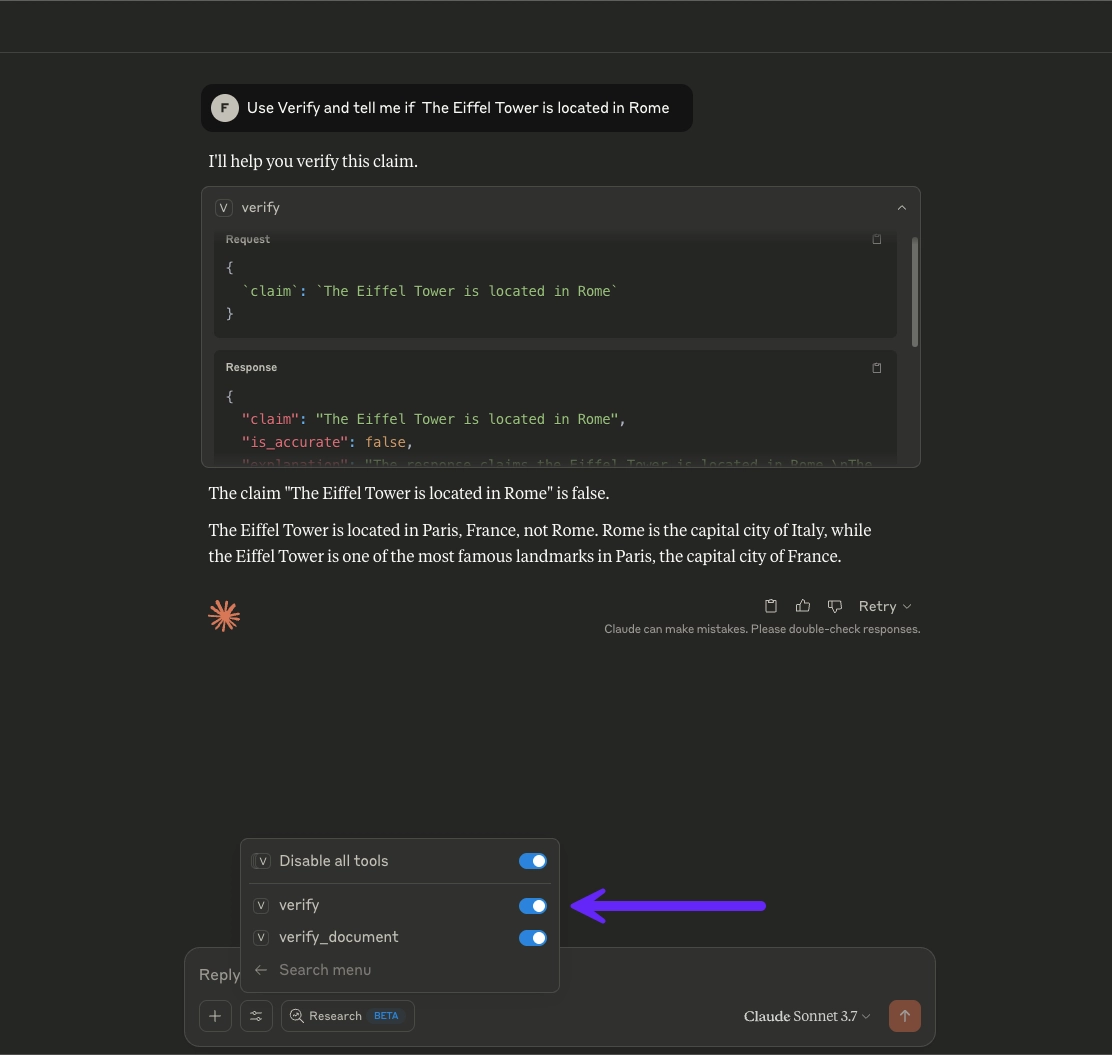
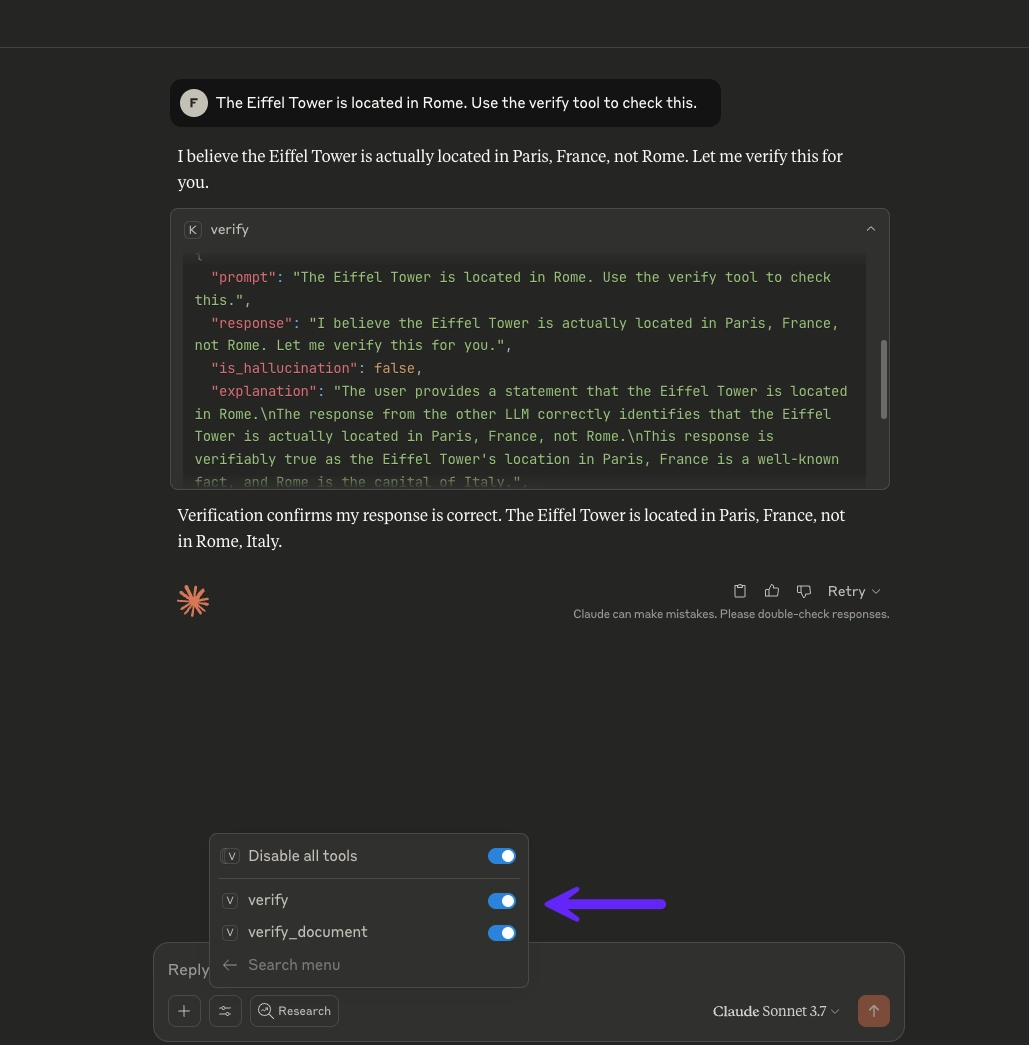
update mcp

diff --git a/src/index.ts b/src/index.ts
@@ -62,31 +62,33 @@ function createMcpServer(serverApiKey?: string): McpServer {
   // Tool 1: verify
   mcpServer.tool(
     'verify',
-    'Fact-check a claim against reliable sources using kluster.ai',
+    'Fact-check a prompt from a user and response from the agent against reliable sources using kluster.ai',
     {
-      claim: z.string().describe('The claim to fact-check'),
+      prompt: z.string().describe('The prompt the user made to the agent. If there are multiple prompts please do multiple calls.'),
+      response: z.string().describe('The response from the agent that must be verified. If there are multiple responses for the same prompt please combine them into a single response. This parameter should never be empty.'),
       returnSearchResults: z
         .boolean()
         .describe('Whether to return search results for verification')
         .default(true),
     },
-    async ({ claim, returnSearchResults }) => {
+    async ({ prompt, response, returnSearchResults }) => {
       try {
         // Create client with effective API key
         const client = new KlusterAIClient(effectiveApiKey, baseUrl);
         
         // Call kluster.ai API
         const result = await client.verifyClaim(
-          'Please verify this claim for accuracy:',
-          claim,
+          prompt,
+          response,
           undefined,
           returnSearchResults
         );
 
         // Transform response to match expected format
         const mcpResult: MCPVerificationResult = {
-          claim,
-          is_accurate: !result.is_hallucination, 
+          prompt,
+          response,
+          is_hallucination: result.is_hallucination, 
           explanation: result.explanation,
           confidence: result.usage, 
           search_results: result.search_results || [],
@@ -117,11 +119,14 @@ function createMcpServer(serverApiKey?: string): McpServer {
   // Tool 2: verify_document
   mcpServer.tool(
     'verify_document',
-    'Verify if a user\'s claim accurately reflects the content of a source document',
+    'Verify if a response from the agent accurately reflects the content of a source document based on the user\'s prompt',
     {
-      claim: z
+      prompt: z
         .string()
-        .describe('The user\'s claim or interpretation about what the document contains'),
+        .describe('The prompt the user made to the agent about the document. If there are multiple prompts please do multiple calls.'),
+      response: z
+        .string()
+        .describe('The response from the agent that must be verified against the document content. If there are multiple responses for the same prompt please combine them into a single response. This parameter should never be empty.'),
       documentContent: z
         .string()
         .describe('The full text content of the source document that the claim is about'),
@@ -130,25 +135,26 @@ function createMcpServer(serverApiKey?: string): McpServer {
         .describe('Whether to return additional search results for cross-verification')
         .default(true),
     },
-    async ({ claim, documentContent, returnSearchResults }) => {
+    async ({ prompt, response, documentContent, returnSearchResults }) => {
       try {
         // Create client with effective API key
         const client = new KlusterAIClient(effectiveApiKey, baseUrl);
         
         // Call kluster.ai API with document context
         const result = await client.verifyClaim(
-          'Does this claim accurately reflect the provided document content?',
-          claim,
+          prompt,
+          response,
           documentContent,
           returnSearchResults
         );
 
         // Transform response to match expected format
         const mcpResult: MCPVerificationResult = {
-          claim,
-          is_accurate: !result.is_hallucination, // Critical transformation
+          prompt,
+          response,
+          is_hallucination: result.is_hallucination, 
           explanation: result.explanation,
-          confidence: result.usage, // Rename usage to confidence
+          confidence: result.usage, 
           search_results: result.search_results || [],
         };
 

diff --git a/src/types.ts b/src/types.ts
@@ -29,8 +29,9 @@ export interface VerificationResponse {
  * Transformed response for MCP clients
  */
 export interface MCPVerificationResult {
-  claim: string;
-  is_accurate: boolean;
+  prompt: string;
+  response: string;
+  is_hallucination: boolean;
   explanation: string;
   confidence: {
     completion_tokens: number;

diff --git a/README.md b/README.md
@@ -1,6 +1,6 @@
 # Self-hosted MCP
 
- [kluster.ai's](https://www.kluster.ai/) HTTP Streamable MCP self-hosted server. Deploy locally with two powerful tools: `verify` for fact-checking claims and `verify_document` for document validation.
+ [kluster.ai's](https://www.kluster.ai/) HTTP Streamable MCP self-hosted server. Deploy locally with two powerful tools: `verify` for fact-checking a prompt from a user and response from the agent, and `verify_document` for document validation.
 
 **Need easier hosting?** Try our [Cloud MCP](https://platform.kluster.ai/mcp) for instant setup without deployment. 
 
@@ -73,8 +73,8 @@ Once connected, you can use the verification tools directly in Claude desktop co
 
 ## Available tools
 
-- **`verify`** - Fact-check claims against reliable sources.
-- **`verify_document`** - Verify claims about document content.
+- **`verify`** - Fact-check a prompt from a user and response from the agent against reliable sources.
+- **`verify_document`** - Verify if a response from the agent accurately reflects document content based on the user's prompt.
 
 For detailed parameters and response formats, see the [Tools reference](https://docs.kluster.ai/get-started/mcp/tools/).
 
